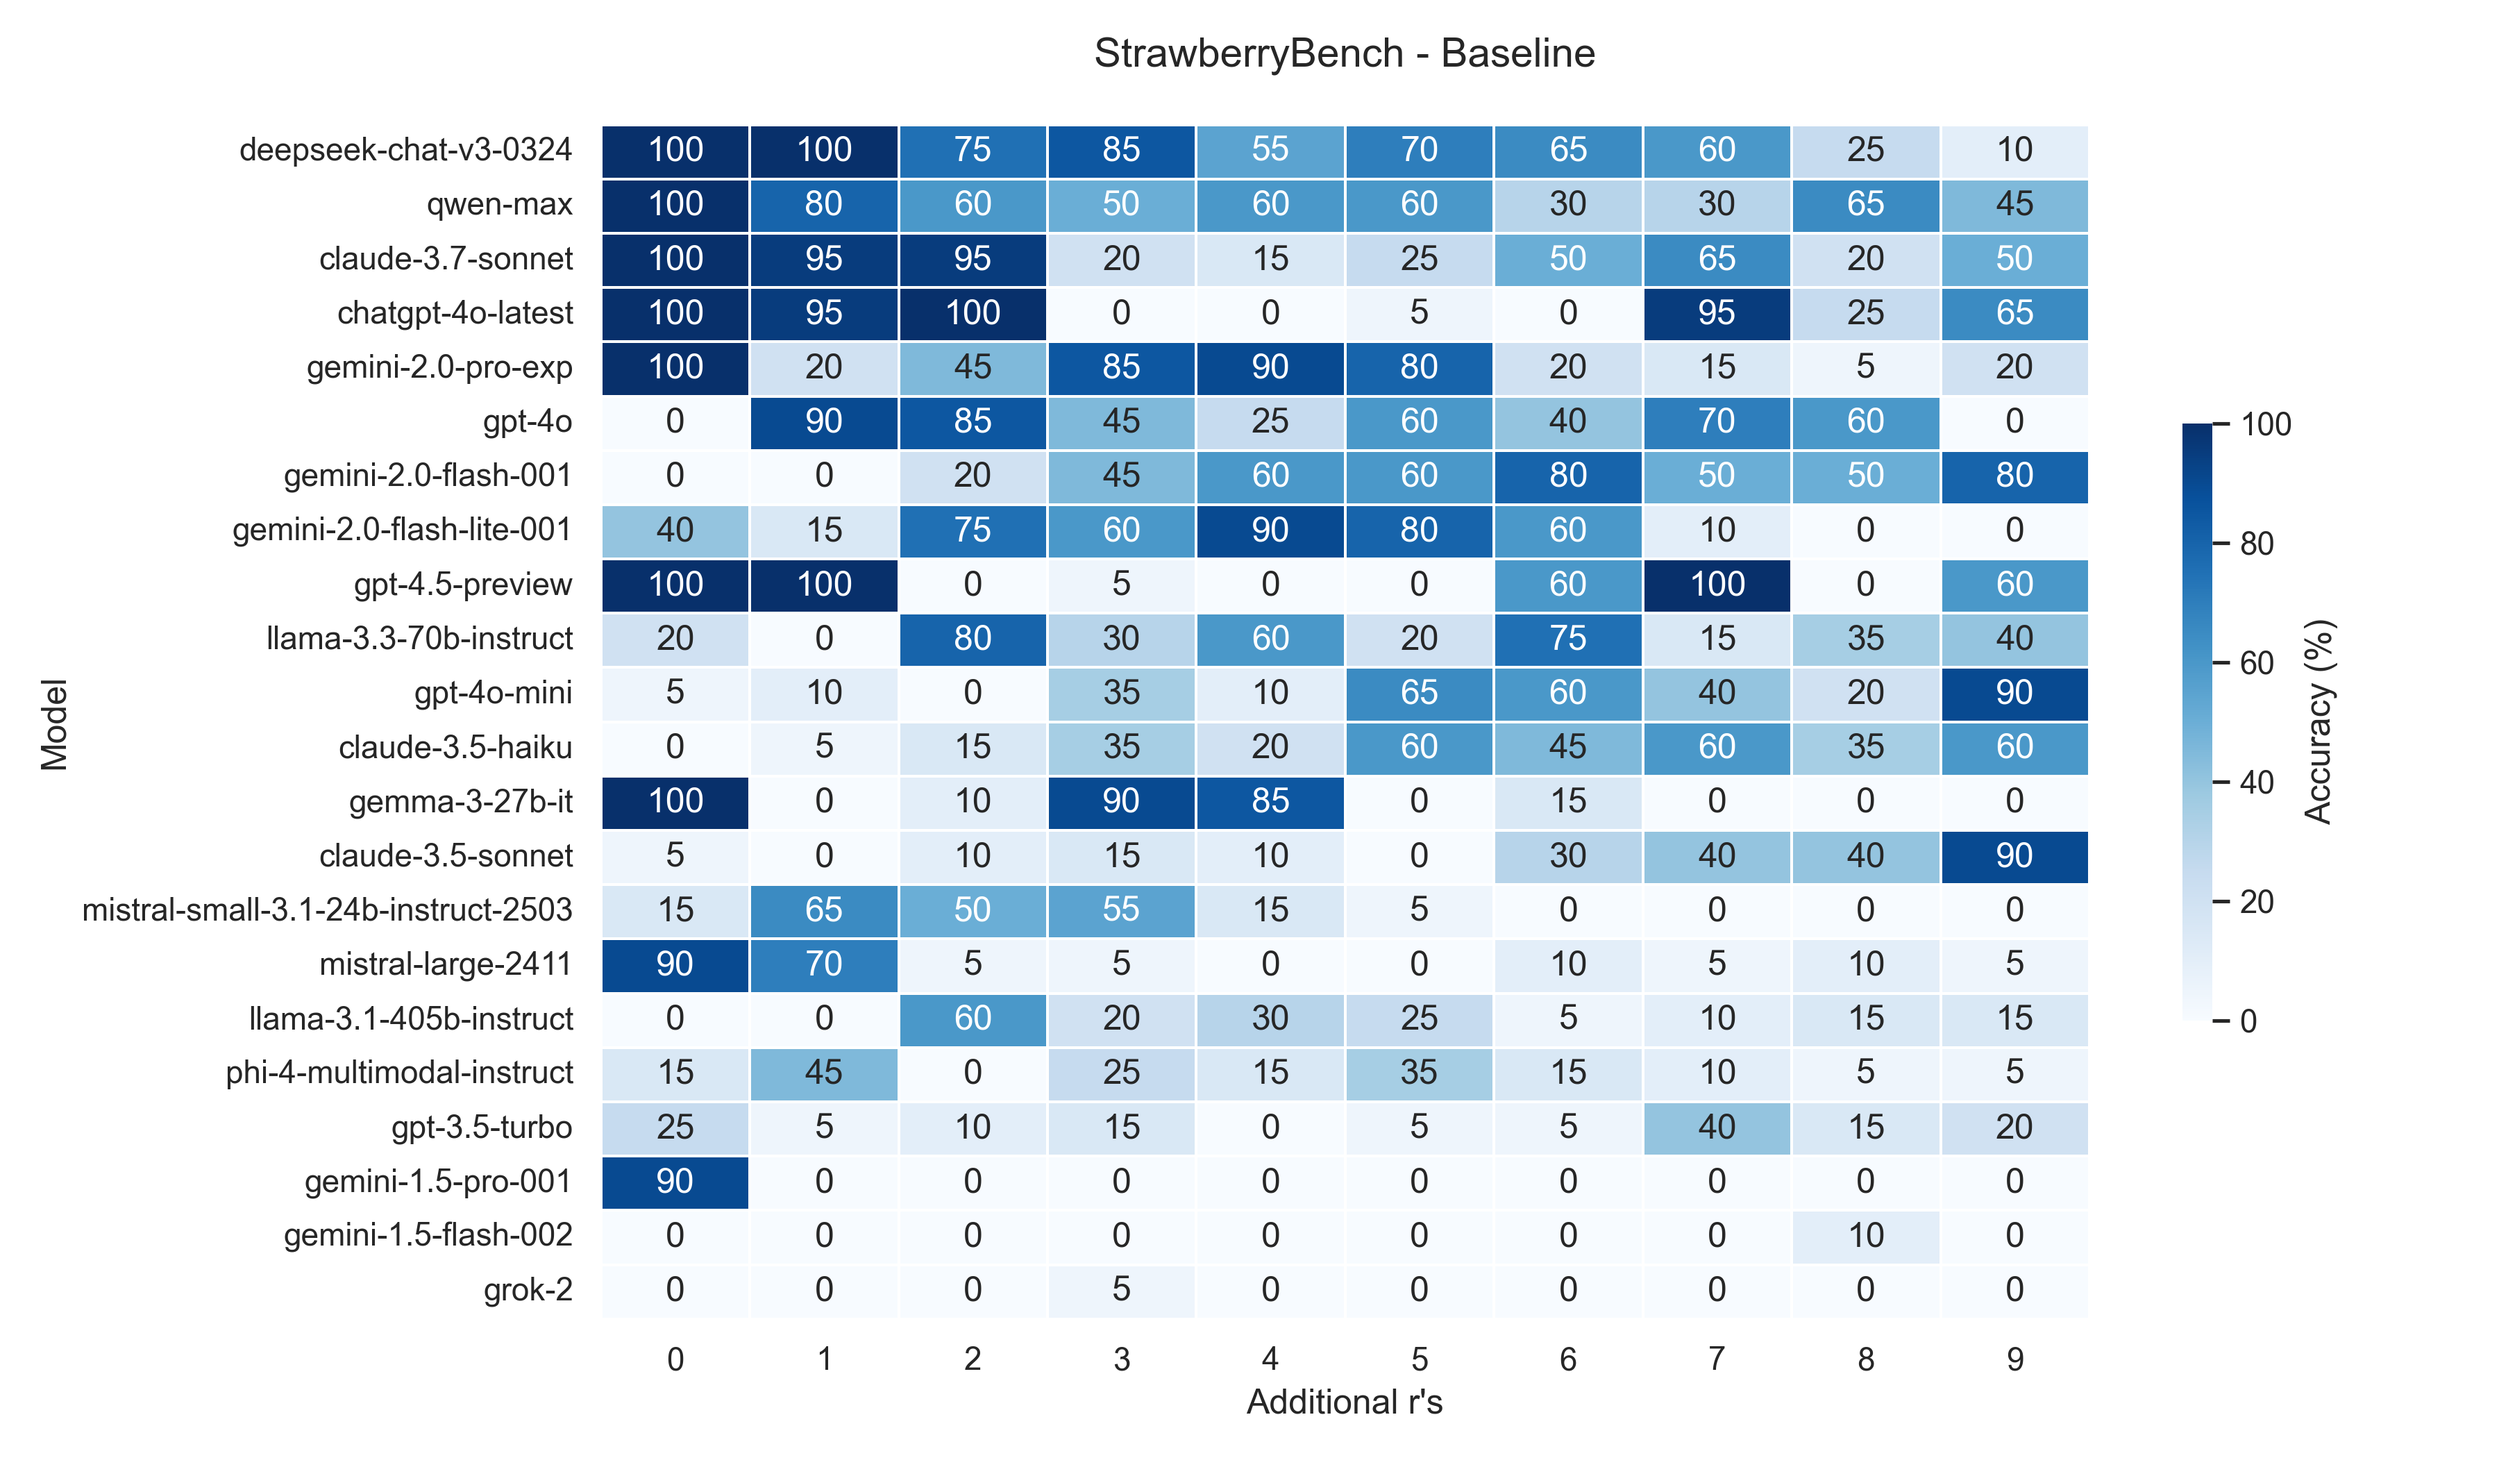
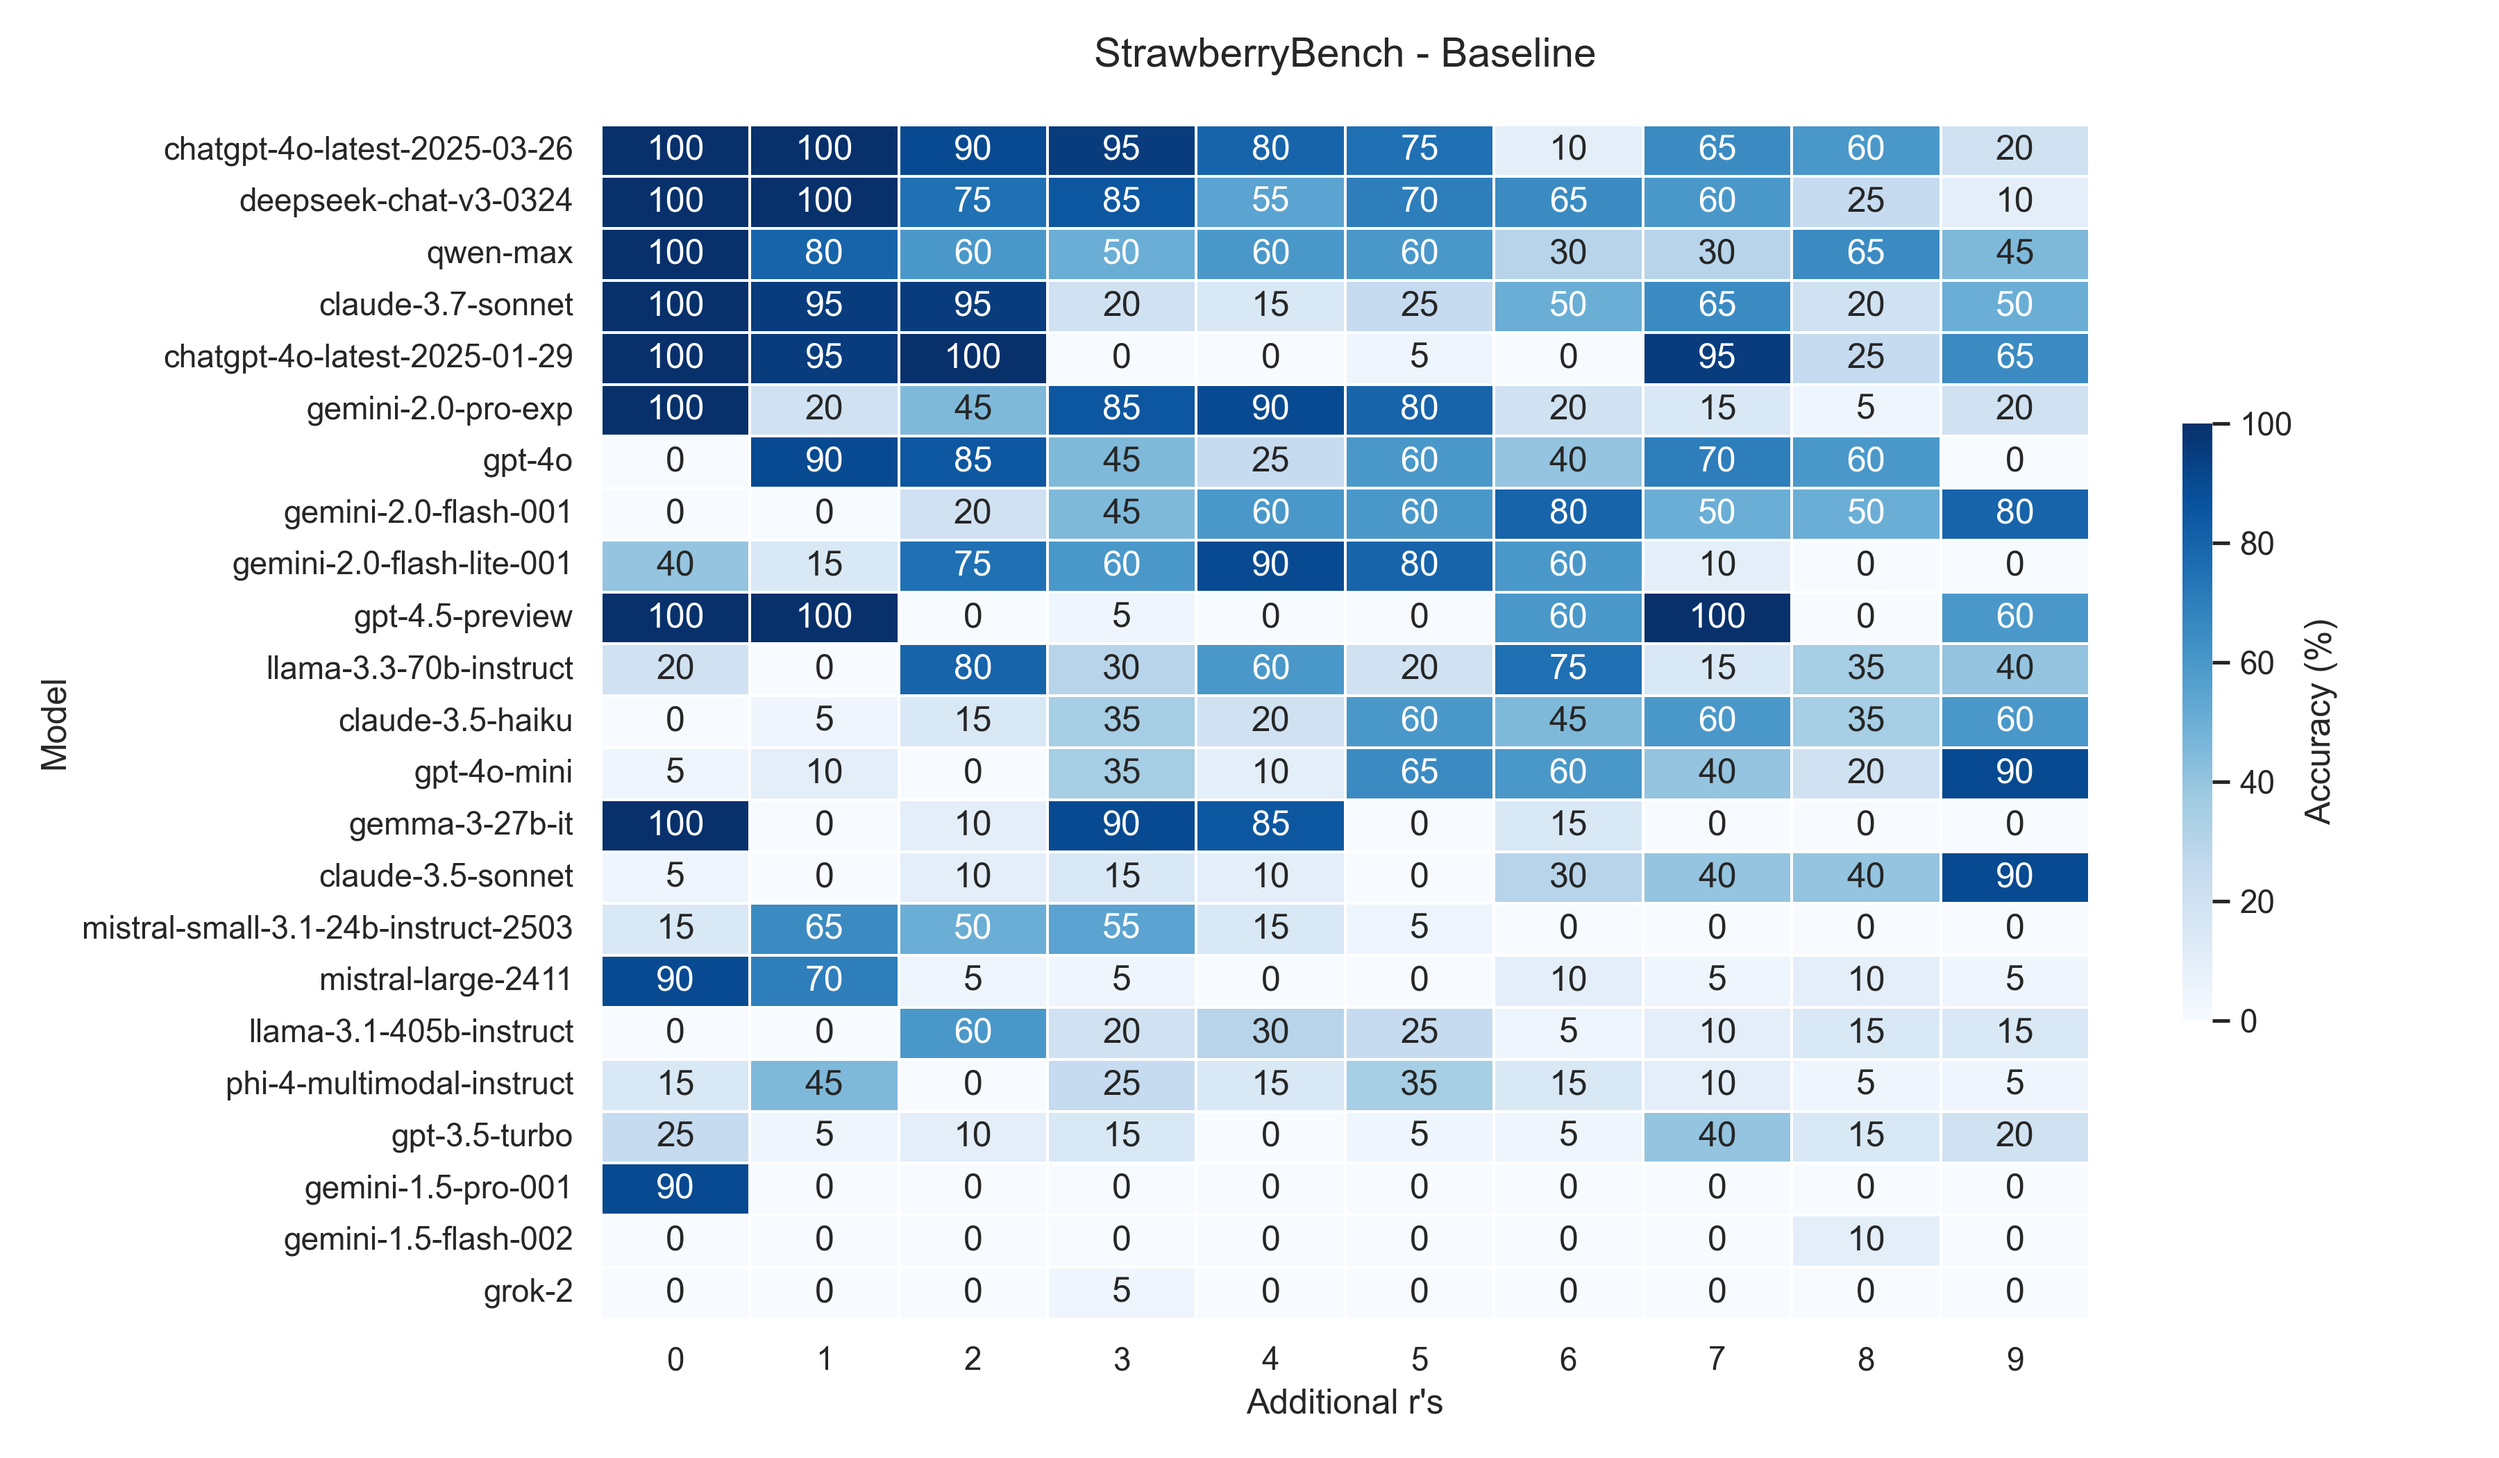
Add new chatgpt-4o-latest

Changed region(s): [[0.0311, 0.0619, 0.84, 0.8976]]

diff --git a/client_google_studio.py b/client_google_studio.py
@@ -1,32 +1,25 @@
 import os
-import vertexai
-from vertexai.generative_models import GenerativeModel, GenerationConfig
+from google import genai
+from google.genai.types import GenerateContentConfig
 from tenacity import (
     retry,
     stop_after_attempt,
     wait_exponential,
     retry_if_exception_type,
 )
+
+
 from config import TEMPERATURE
 
 
-class GoogleVertexClient:
+class GoogleStudioClient:
     def __init__(self, model, rate_limiter):
         if model.startswith("google/"):
             model = model.replace("google/", "")
 
-        vertexai.init(
-            project=os.getenv("VERTEX_PROJECT_ID"),
-            location=os.getenv("VERTEX_LOCATION"),
-        )
-
         self.rate_limiter = rate_limiter
-        self.vertex_model = GenerativeModel(
-            model,
-            generation_config=GenerationConfig(
-                temperature=TEMPERATURE,
-            ),
-        )
+        self.client = genai.Client(api_key=os.getenv("GENAI_API_KEY"))
+        self.model = model
 
     @retry(
         stop=stop_after_attempt(5),
@@ -35,6 +28,13 @@ class GoogleVertexClient:
     )
     async def query_model(self, prompt: str) -> str:
         await self.rate_limiter.acquire()
-        response = await self.vertex_model.generate_content_async(prompt)
-        text = response.candidates[0].content.text
-        return text or ""
+        response = await self.client.aio.models.generate_content(
+            model=self.model,
+            contents=prompt,
+            config=GenerateContentConfig(
+                temperature=TEMPERATURE,
+            ),
+        )
+
+        print(response)
+        return response.text or ""

diff --git a/config.py b/config.py
@@ -22,7 +22,6 @@ MODELS = [
     # { "name": "qwen/qwen-max", "client": "openrouter", "type": "nocot", "settings": { "rate_limit": 30 } },
     # { "name": "x-ai/grok-2-1212", "client": "openrouter", "type": "nocot" },
 
-
     # { "name": "anthropic/claude-3.5-haiku", "client": "openrouter", "type": "cot" },
     # { "name": "anthropic/claude-3.5-sonnet", "client": "openrouter", "type": "cot" },
     # { "name": "anthropic/claude-3.7-sonnet", "client": "openrouter", "type": "cot", "settings": { "rate_limit": 25 } },
@@ -50,6 +49,7 @@ MODELS = [
     # { "name": "deepseek/deepseek-r1", "client": "openrouter", "type": "reasoning" },
     # { "name": "deepseek/deepseek-r1-distill-llama-70b", "client": "openrouter", "type": "reasoning" },
     # { "name": "google/gemini-2.0-flash-thinking-exp-01-21", "client": "google_vertex", "type": "reasoning", "settings": { "rate_limit": 10 } },
+    # { "name": "google/gemini-2.5-pro-exp-03-25", "client": "google_studio", "type": "reasoning", "settings": {"rate_limit": 4} },
     # { "name": "openai/o1", "client": "openai", "type": "reasoning" },
     # { "name": "openai/o1-mini", "client": "openai", "type": "reasoning" },
     # { "name": "openai/o3-mini", "client": "openai", "type": "reasoning" },

diff --git a/client_openrouter.py b/client_openrouter.py
@@ -1,9 +1,15 @@
-from tenacity import retry, stop_after_attempt, wait_exponential, retry_if_exception_type
+from tenacity import (
+    retry,
+    stop_after_attempt,
+    wait_exponential,
+    retry_if_exception_type,
+)
 import aiohttp
 from aiohttp import ClientError
 import json
 import os
 from config import TEMPERATURE
+
 
 class OpenRouterClient:
     def __init__(self, model, rate_limiter):
@@ -19,7 +25,7 @@ class OpenRouterClient:
     @retry(
         stop=stop_after_attempt(5),
         wait=wait_exponential(multiplier=2, min=2),
-        retry=retry_if_exception_type((ClientError, KeyError))
+        retry=retry_if_exception_type((ClientError, KeyError)),
     )
     async def query_model(self, prompt: str) -> str:
         await self.rate_limiter.acquire()

diff --git a/client_anthropic.py b/client_anthropic.py
@@ -1,6 +1,11 @@
 import os
 from anthropic import AsyncAnthropic, InternalServerError
-from tenacity import retry, stop_after_attempt, wait_exponential, retry_if_exception_type
+from tenacity import (
+    retry,
+    stop_after_attempt,
+    wait_exponential,
+    retry_if_exception_type,
+)
 from config import TEMPERATURE
 
 
@@ -16,7 +21,7 @@ class AnthropicClient:
     @retry(
         stop=stop_after_attempt(5),
         wait=wait_exponential(multiplier=2, min=2),
-        retry=retry_if_exception_type((Exception, TypeError, InternalServerError))
+        retry=retry_if_exception_type((Exception, TypeError, InternalServerError)),
     )
     async def query_model(self, prompt: str) -> str:
         await self.rate_limiter.acquire()

diff --git a/client_openai.py b/client_openai.py
@@ -1,6 +1,11 @@
 import os
 from openai import AsyncOpenAI
-from tenacity import retry, stop_after_attempt, wait_exponential, retry_if_exception_type
+from tenacity import (
+    retry,
+    stop_after_attempt,
+    wait_exponential,
+    retry_if_exception_type,
+)
 from config import TEMPERATURE
 
 
@@ -16,7 +21,7 @@ class OpenAIClient:
     @retry(
         stop=stop_after_attempt(5),
         wait=wait_exponential(multiplier=2, min=2),
-        retry=retry_if_exception_type((Exception, TypeError))
+        retry=retry_if_exception_type((Exception, TypeError)),
     )
     async def query_model(self, prompt: str) -> str:
         await self.rate_limiter.acquire()

diff --git a/client.py b/client.py
@@ -3,6 +3,7 @@ from client_anthropic import AnthropicClient
 from client_openai import OpenAIClient
 from client_openrouter import OpenRouterClient
 from client_google_vertex import GoogleVertexClient
+from client_google_studio import GoogleStudioClient
 
 cache = {}
 
@@ -24,6 +25,8 @@ def get_client(model: dict):
         client = OpenAIClient(name, limiter)
     elif client == "google_vertex":
         client = GoogleVertexClient(name, limiter)
+    elif client == "google_studio":
+        client = GoogleStudioClient(name, limiter)
     elif client == "anthropic":
         client = AnthropicClient(name, limiter)
     else:

diff --git a/plot.py b/plot.py
@@ -146,7 +146,9 @@ def plot_all(json_filename, save_plots=False):
         heatmap_save_path = "assets/heatmap_cot.png" if save_plots else None
         bar_chart_save_path = "assets/bar_chart_cot.png" if save_plots else None
 
-        plot_heatmap(pivot_cot, "StrawberryBench - Chain of Thought", save_path=heatmap_save_path)
+        plot_heatmap(
+            pivot_cot, "StrawberryBench - Chain of Thought", save_path=heatmap_save_path
+        )
         plot_bar_chart(
             df_cot, "StrawberryBench - Chain of Thought", save_path=bar_chart_save_path
         )
